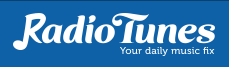
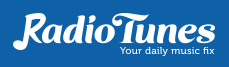
RadioTunes style fix

Changed region(s): [[0.0, 0.0, 1.0, 0.0299]]

diff --git a/js/radio.js b/js/radio.js
@@ -51,7 +51,7 @@ var playerStatus;
             "comment": "RadioTunes Relaxation",
             "style": "uppod/audio154-811.txt",
             "url": "http://pub5.radiotunes.com/radiotunes_relaxation_aacplus?type=.flv",
-            "bgcolor": "0e61a7",
+            "bgcolor": "005caa",
             "blockStyle": "dark",
             "site": "http://www.radiotunes.com/relaxation"
         },
